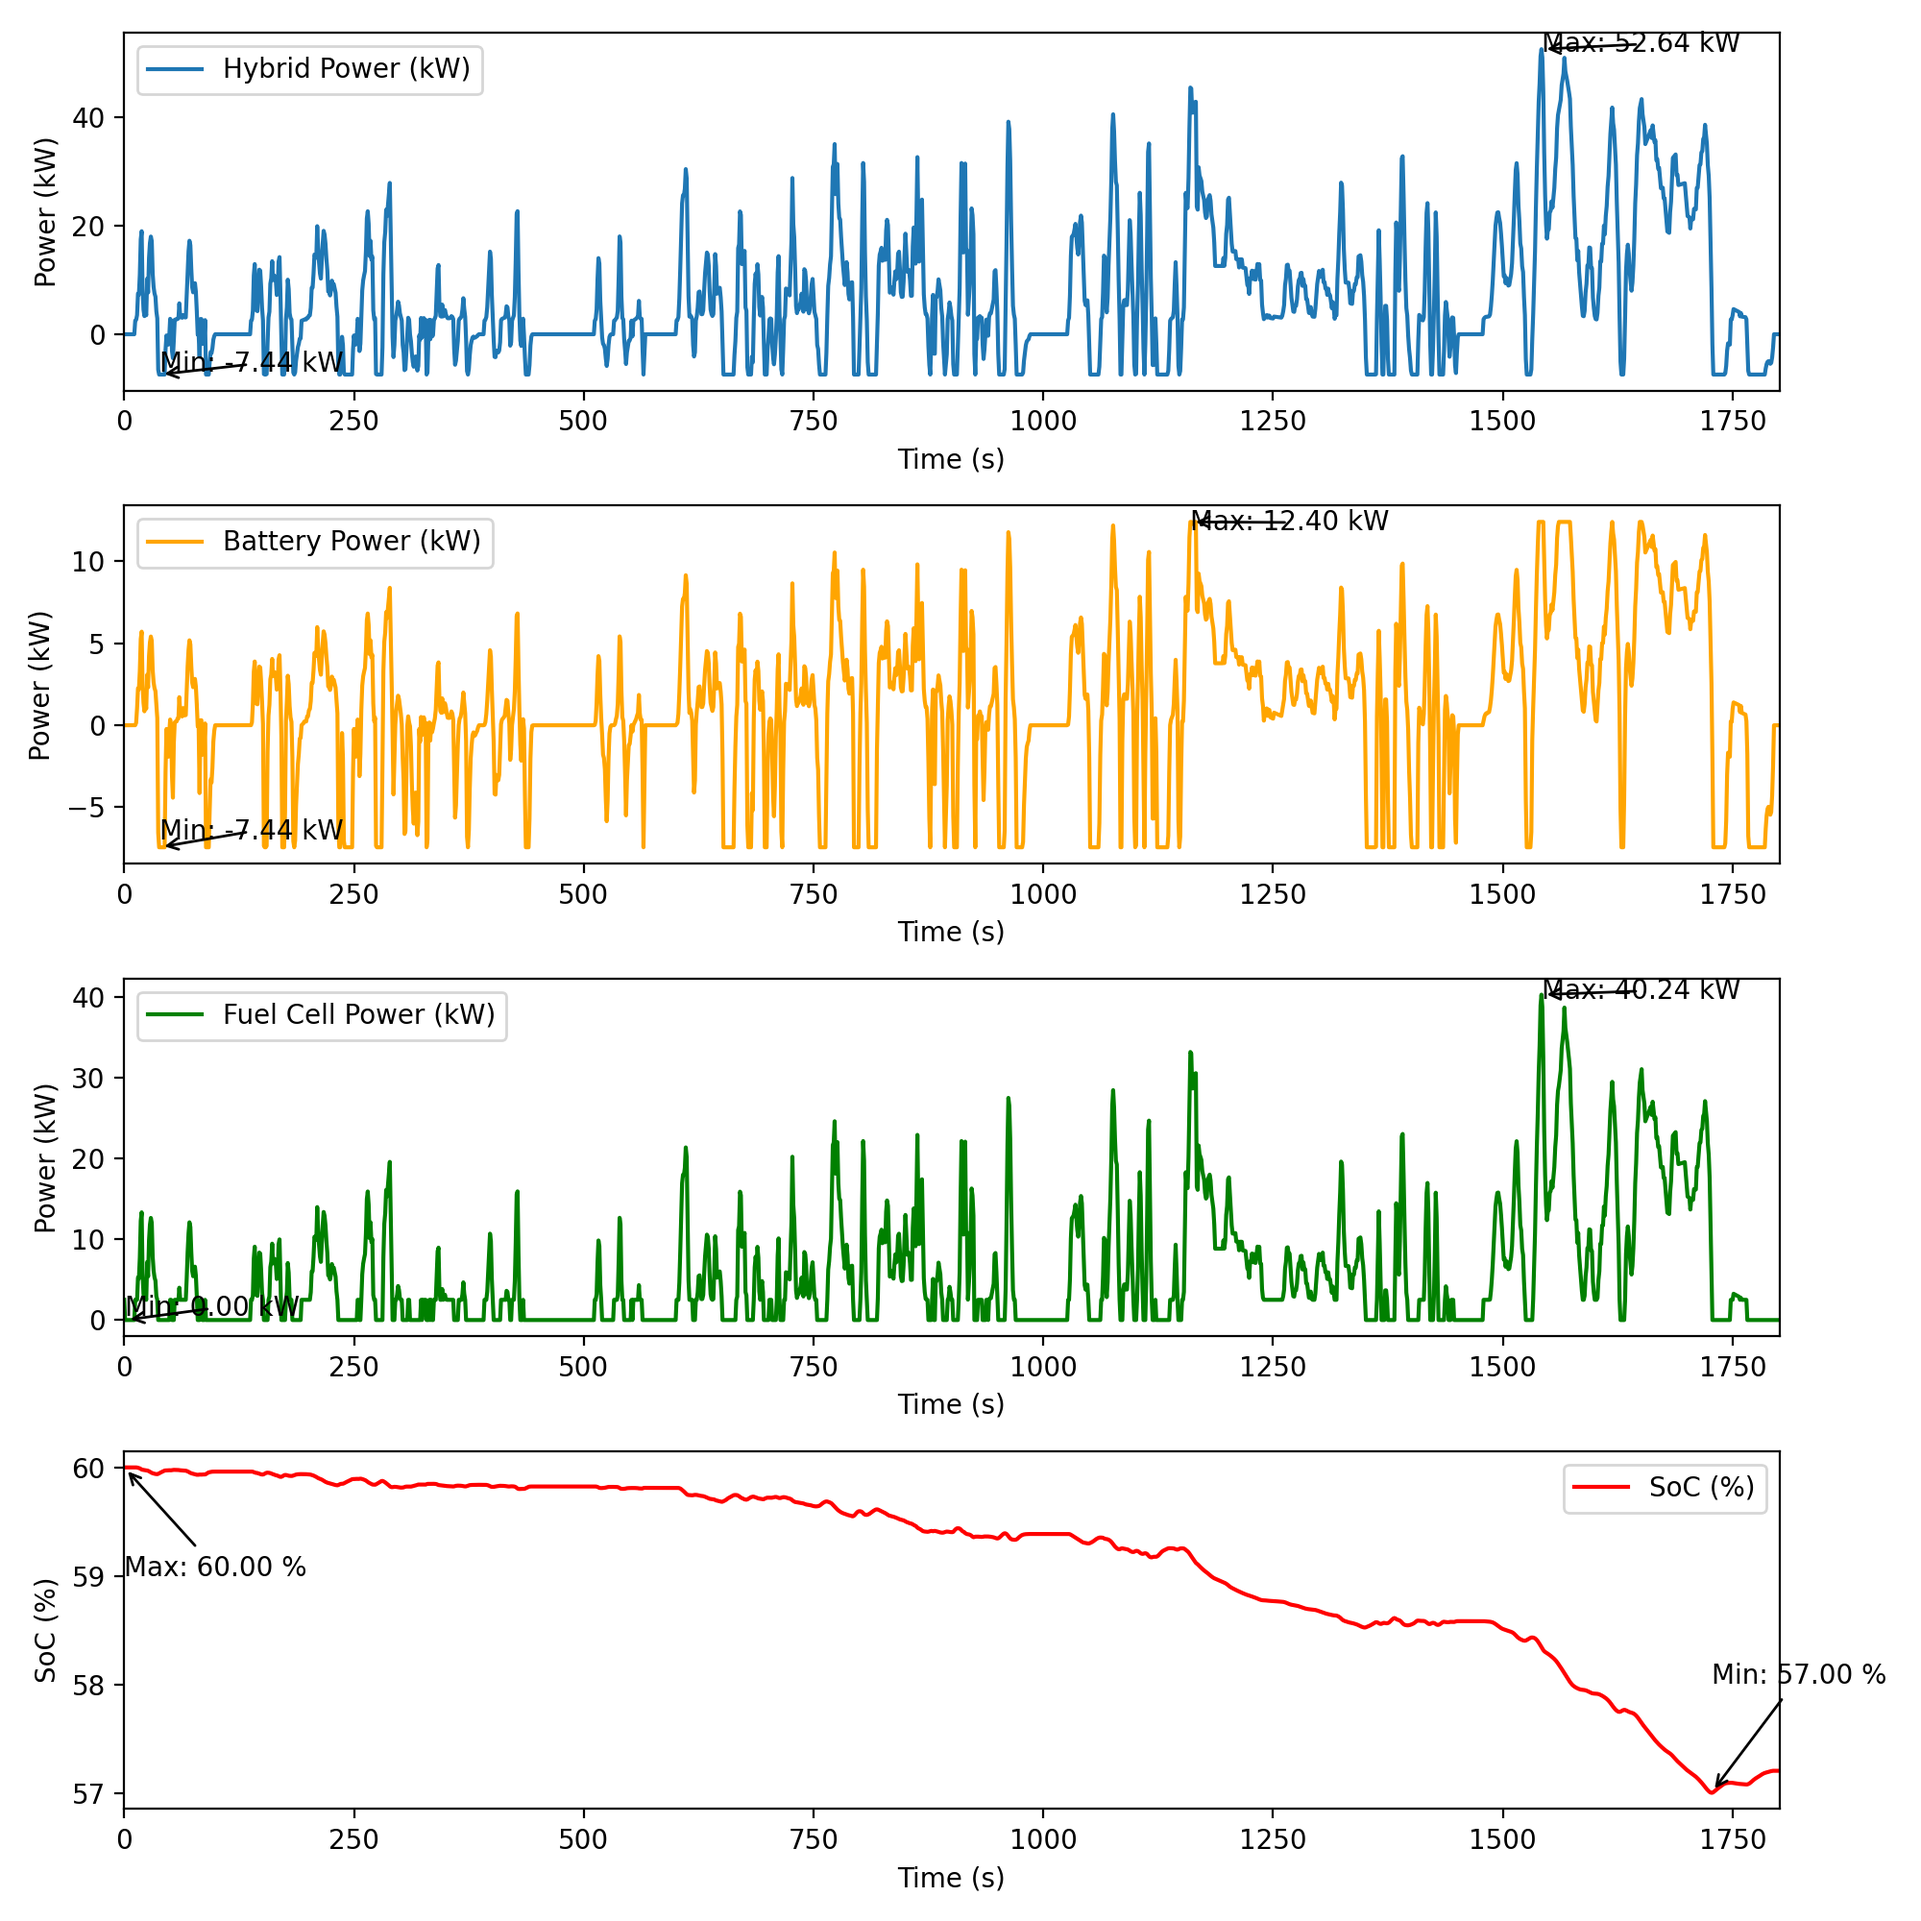
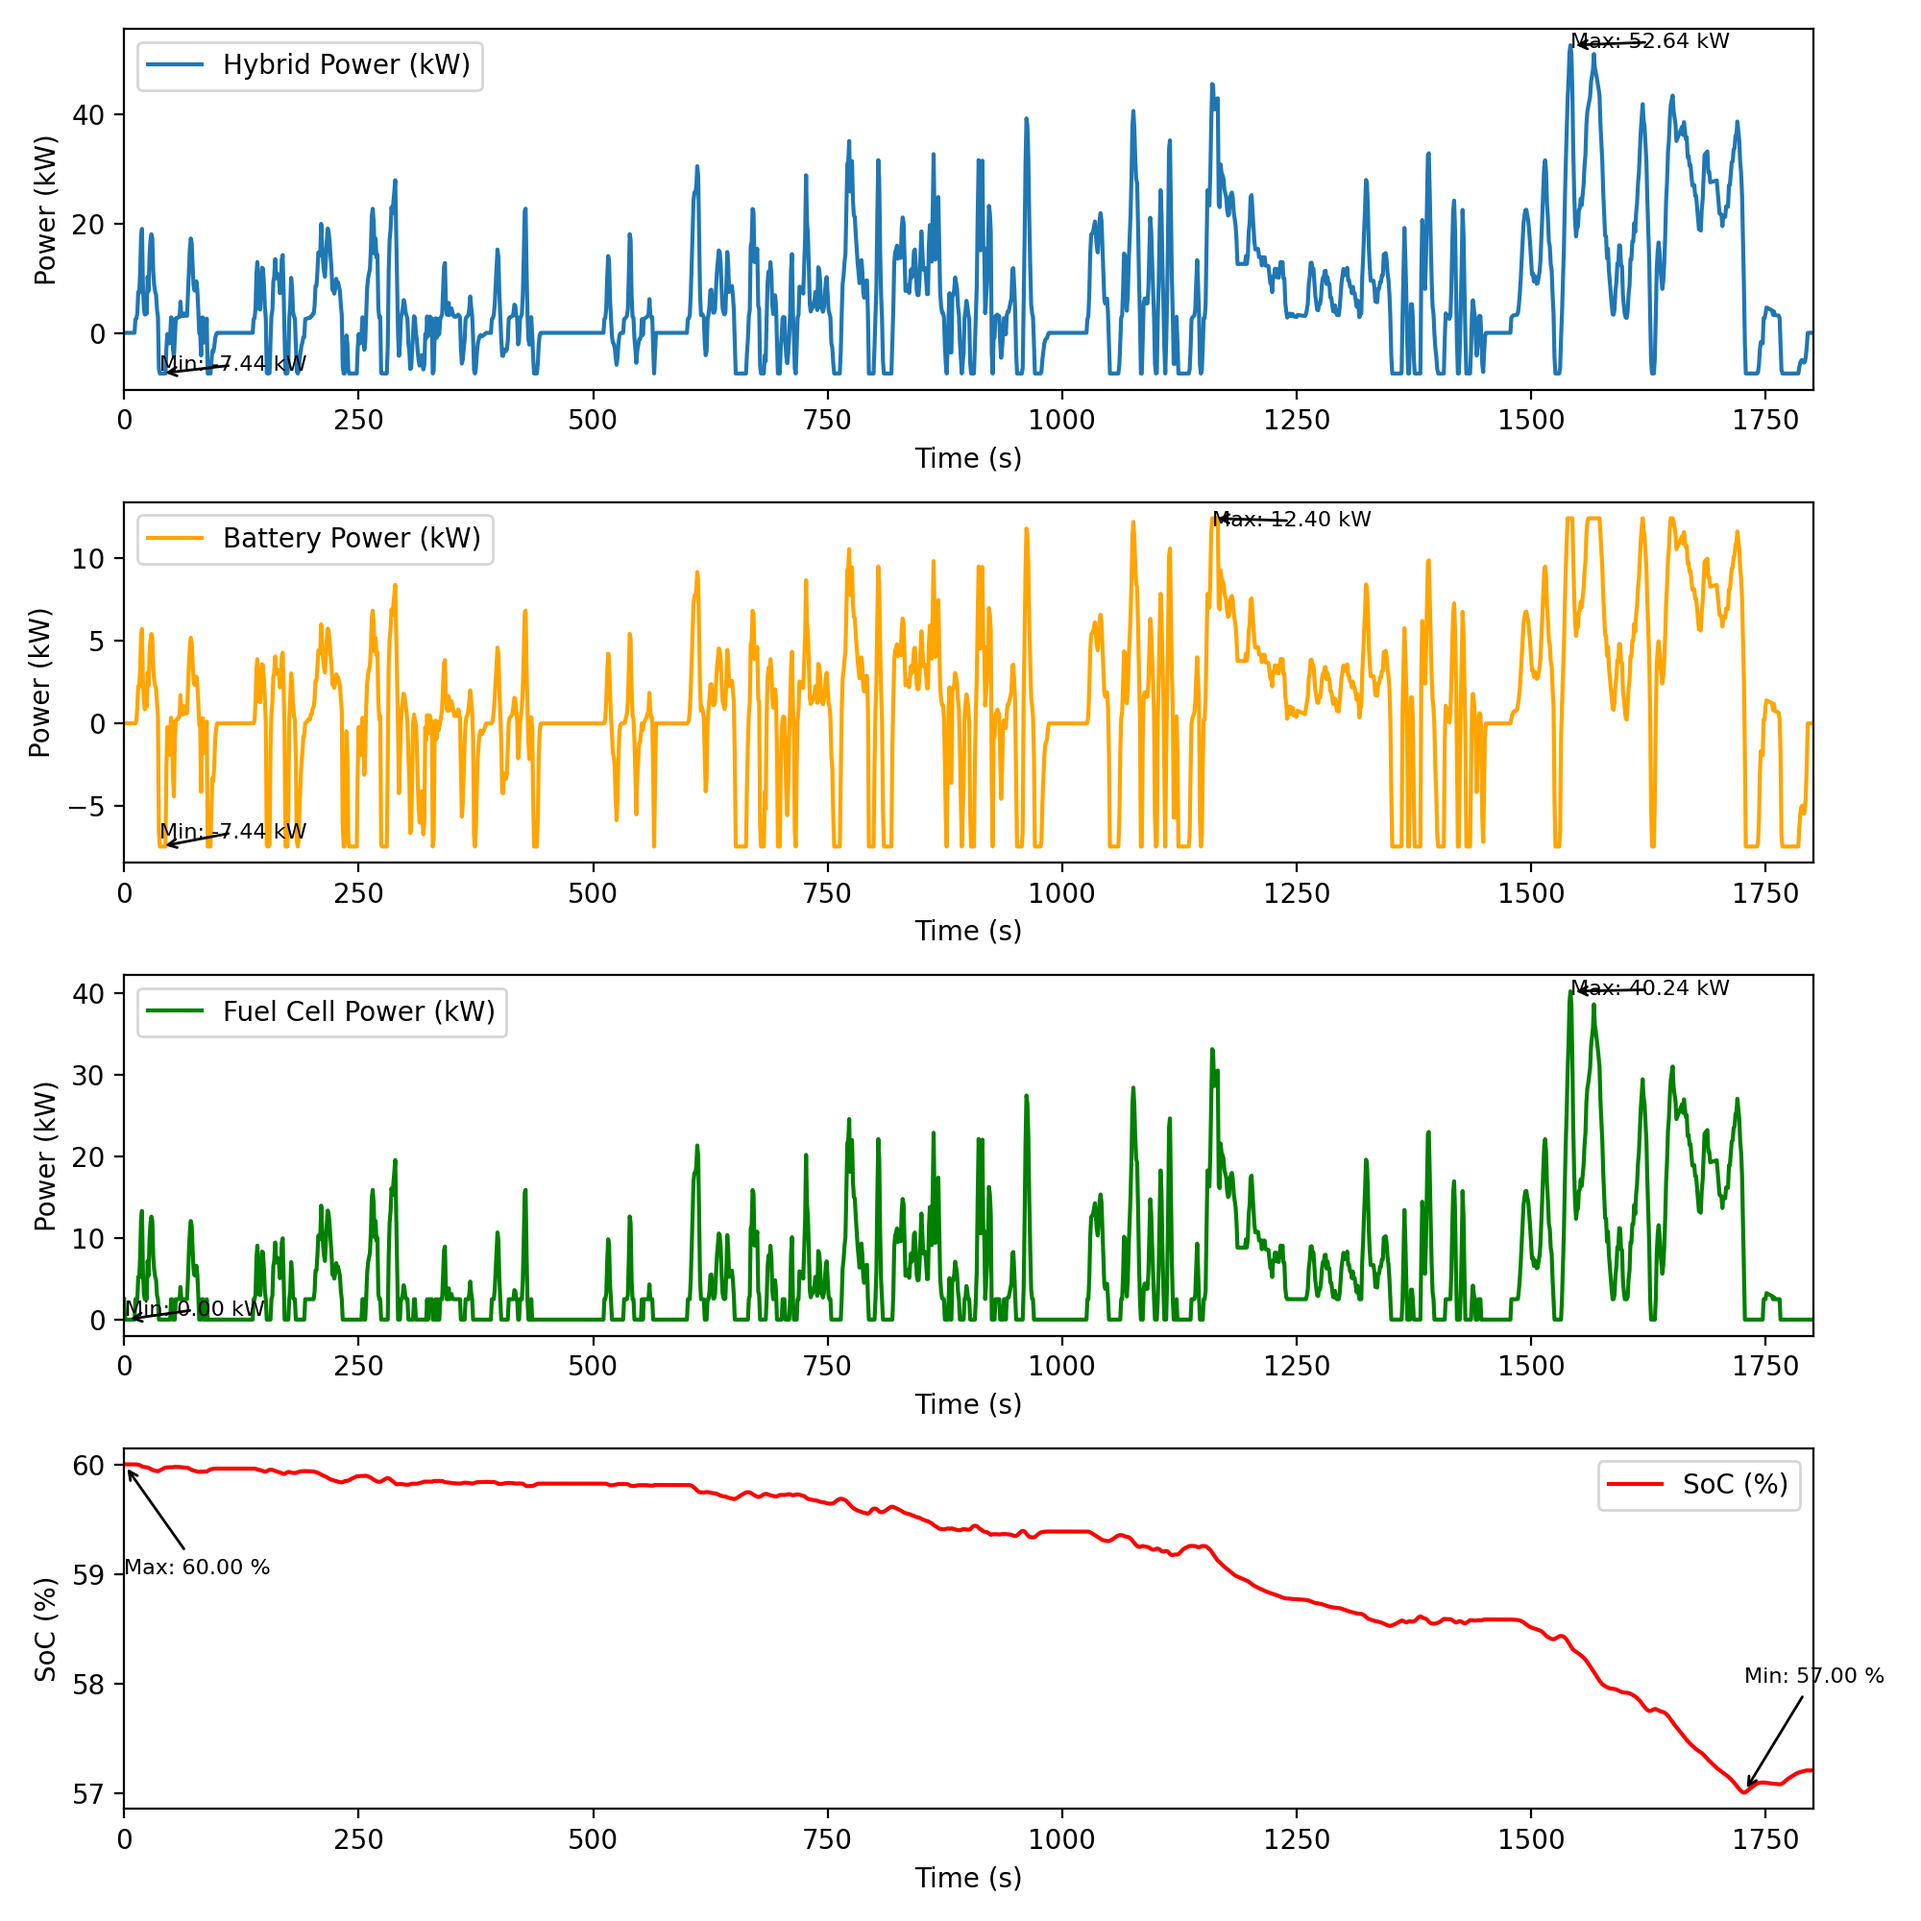
V7

diff --git a/Plot01_V1.py b/Plot01_V1.py
@@ -120,9 +120,9 @@ def plot_results(t, v, v_s, acceleration, Fair, Frolling, Fcl, InP, SoC, power_b
     plt.legend()
     # Annotate min and max values
     plt.annotate(f'Min: {min(v):.2f} km/h', xy=(t[np.argmin(v)], min(v)), xytext=(t[np.argmin(v)], min(v) + 5),
-                 arrowprops=dict(facecolor='black', arrowstyle='->'), fontsize=10, color='black')
+                 arrowprops=dict(facecolor='black', arrowstyle=' -> '), fontsize=8, color='black')
     plt.annotate(f'Max: {max(v):.2f} km/h', xy=(t[np.argmax(v)], max(v)), xytext=(t[np.argmax(v)], max(v) - 5),
-                 arrowprops=dict(facecolor='black', arrowstyle='->'), fontsize=10, color='black')
+                 arrowprops=dict(facecolor='black', arrowstyle=' -> '), fontsize=8, color='black')
 
     plt.subplot(5, 1, 2)
     plt.plot(t, v_s, 'b-', label='Speed (m/s)')
@@ -132,9 +132,9 @@ def plot_results(t, v, v_s, acceleration, Fair, Frolling, Fcl, InP, SoC, power_b
     plt.legend()
     # Annotate min and max values
     plt.annotate(f'Min: {min(v_s):.2f} m/s', xy=(t[np.argmin(v_s)], min(v_s)), xytext=(t[np.argmin(v_s)], min(v_s) + 0.5),
-                 arrowprops=dict(facecolor='black', arrowstyle='->'), fontsize=10, color='black')
+                 arrowprops=dict(facecolor='black', arrowstyle=' -> '), fontsize=8, color='black')
     plt.annotate(f'Max: {max(v_s):.2f} m/s', xy=(t[np.argmax(v_s)], max(v_s)), xytext=(t[np.argmax(v_s)], max(v_s) - 0.5),
-                 arrowprops=dict(facecolor='black', arrowstyle='->'), fontsize=10, color='black')
+                 arrowprops=dict(facecolor='black', arrowstyle=' -> '), fontsize=8, color='black')
 
     plt.subplot(5, 1, 3)
     plt.plot(t[1:], acceleration[1:], 'g-', label='Acceleration (m/s²)')
@@ -145,10 +145,10 @@ def plot_results(t, v, v_s, acceleration, Fair, Frolling, Fcl, InP, SoC, power_b
     # Annotate min and max values
     plt.annotate(f'Min: {min(acceleration):.2f} m/s²', xy=(t[1:][np.argmin(acceleration)], min(acceleration)), 
                  xytext=(t[1:][np.argmin(acceleration)], min(acceleration) + 0.5),
-                 arrowprops=dict(facecolor='black', arrowstyle='->'), fontsize=10, color='black')
+                 arrowprops=dict(facecolor='black', arrowstyle=' -> '), fontsize=8, color='black')
     plt.annotate(f'Max: {max(acceleration):.2f} m/s²', xy=(t[1:][np.argmax(acceleration)], max(acceleration)), 
                  xytext=(t[1:][np.argmax(acceleration)], max(acceleration) - 0.5),
-                 arrowprops=dict(facecolor='black', arrowstyle='->'), fontsize=10, color='black')
+                 arrowprops=dict(facecolor='black', arrowstyle=' -> '), fontsize=8, color='black')
 
     plt.subplot(5, 1, 4)
     plt.plot(t, Fair / 1000, 'y-', label='Air Resistance (kN)')
@@ -159,10 +159,10 @@ def plot_results(t, v, v_s, acceleration, Fair, Frolling, Fcl, InP, SoC, power_b
     # Annotate min and max values
     plt.annotate(f'Min: {min(Fair / 1000):.2f} kN', xy=(t[np.argmin(Fair)], min(Fair / 1000)), 
                  xytext=(t[np.argmin(Fair)], min(Fair / 1000) + 0.5),
-                 arrowprops=dict(facecolor='black', arrowstyle='->'), fontsize=10, color='black')
+                 arrowprops=dict(facecolor='black', arrowstyle=' -> '), fontsize=8, color='black')
     plt.annotate(f'Max: {max(Fair / 1000):.2f} kN', xy=(t[np.argmax(Fair)], max(Fair / 1000)), 
                  xytext=(t[np.argmax(Fair)], max(Fair / 1000) - 0.5),
-                 arrowprops=dict(facecolor='black', arrowstyle='->'), fontsize=10, color='black')
+                 arrowprops=dict(facecolor='black', arrowstyle=' -> '), fontsize=8, color='black')
 
     plt.subplot(5, 1, 5)
     plt.plot(t, Frolling * np.ones_like(t) / 1000, 'k-', label='Rolling Resistance (kN)')
@@ -186,10 +186,10 @@ def plot_results(t, v, v_s, acceleration, Fair, Frolling, Fcl, InP, SoC, power_b
     # Annotate min and max values
     plt.annotate(f'Min: {min(power_hybrid):.2f} kW', xy=(t[np.argmin(power_hybrid)], min(power_hybrid)), 
                  xytext=(t[np.argmin(power_hybrid)], min(power_hybrid) + 0.5),
-                 arrowprops=dict(facecolor='black', arrowstyle='->'), fontsize=10, color='black')
+                 arrowprops=dict(facecolor='black', arrowstyle=' -> '), fontsize=8, color='black')
     plt.annotate(f'Max: {max(power_hybrid):.2f} kW', xy=(t[np.argmax(power_hybrid)], max(power_hybrid)), 
                  xytext=(t[np.argmax(power_hybrid)], max(power_hybrid) - 0.5),
-                 arrowprops=dict(facecolor='black', arrowstyle='->'), fontsize=10, color='black')
+                 arrowprops=dict(facecolor='black', arrowstyle=' -> '), fontsize=8, color='black')
 
     plt.subplot(4, 1, 2)
     plt.plot(t, power_battery, label="Battery Power (kW)", color="orange")
@@ -200,10 +200,10 @@ def plot_results(t, v, v_s, acceleration, Fair, Frolling, Fcl, InP, SoC, power_b
     # Annotate min and max values
     plt.annotate(f'Min: {min(power_battery):.2f} kW', xy=(t[np.argmin(power_battery)], min(power_battery)), 
                  xytext=(t[np.argmin(power_battery)], min(power_battery) + 0.5),
-                 arrowprops=dict(facecolor='black', arrowstyle='->'), fontsize=10, color='black')
+                 arrowprops=dict(facecolor='black', arrowstyle=' -> '), fontsize=8, color='black')
     plt.annotate(f'Max: {max(power_battery):.2f} kW', xy=(t[np.argmax(power_battery)], max(power_battery)), 
                  xytext=(t[np.argmax(power_battery)], max(power_battery) - 0.5),
-                 arrowprops=dict(facecolor='black', arrowstyle='->'), fontsize=10, color='black')
+                 arrowprops=dict(facecolor='black', arrowstyle=' -> '), fontsize=8, color='black')
 
     plt.subplot(4, 1, 3)
     plt.plot(t, power_fuel_cell, label="Fuel Cell Power (kW)", color="green")
@@ -214,10 +214,10 @@ def plot_results(t, v, v_s, acceleration, Fair, Frolling, Fcl, InP, SoC, power_b
     # Annotate min and max values
     plt.annotate(f'Min: {min(power_fuel_cell):.2f} kW', xy=(t[np.argmin(power_fuel_cell)], min(power_fuel_cell)), 
                  xytext=(t[np.argmin(power_fuel_cell)], min(power_fuel_cell) + 0.5),
-                 arrowprops=dict(facecolor='black', arrowstyle='->'), fontsize=10, color='black')
+                 arrowprops=dict(facecolor='black', arrowstyle=' -> '), fontsize=8, color='black')
     plt.annotate(f'Max: {max(power_fuel_cell):.2f} kW', xy=(t[np.argmax(power_fuel_cell)], max(power_fuel_cell)), 
                  xytext=(t[np.argmax(power_fuel_cell)], max(power_fuel_cell) - 0.5),
-                 arrowprops=dict(facecolor='black', arrowstyle='->'), fontsize=10, color='black')
+                 arrowprops=dict(facecolor='black', arrowstyle=' -> '), fontsize=8, color='black')
 
     plt.subplot(4, 1, 4)
     plt.plot(t, SoC, label="SoC (%)", color="red")
@@ -228,10 +228,10 @@ def plot_results(t, v, v_s, acceleration, Fair, Frolling, Fcl, InP, SoC, power_b
     # Annotate min and max values
     plt.annotate(f'Min: {min(SoC):.2f} %', xy=(t[np.argmin(SoC)], min(SoC)), 
                  xytext=(t[np.argmin(SoC)], min(SoC) + 1),
-                 arrowprops=dict(facecolor='black', arrowstyle='->'), fontsize=10, color='black')
+                 arrowprops=dict(facecolor='black', arrowstyle=' -> '), fontsize=8, color='black')
     plt.annotate(f'Max: {max(SoC):.2f} %', xy=(t[np.argmax(SoC)], max(SoC)), 
                  xytext=(t[np.argmax(SoC)], max(SoC) - 1),
-                 arrowprops=dict(facecolor='black', arrowstyle='->'), fontsize=10, color='black')
+                 arrowprops=dict(facecolor='black', arrowstyle=' -> '), fontsize=8, color='black')
 
     plt.tight_layout()
     plt.savefig('Question_C.png', dpi=200)
